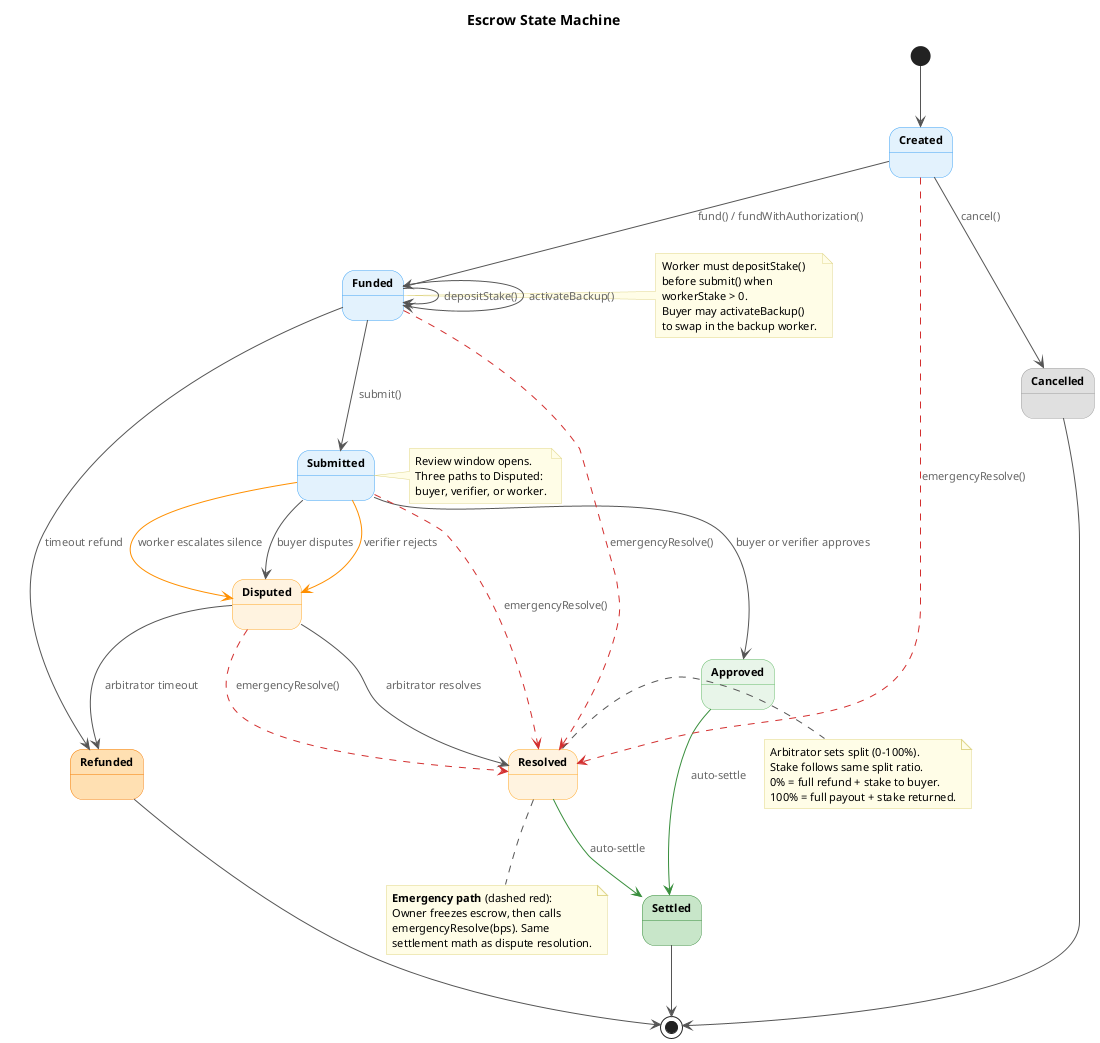
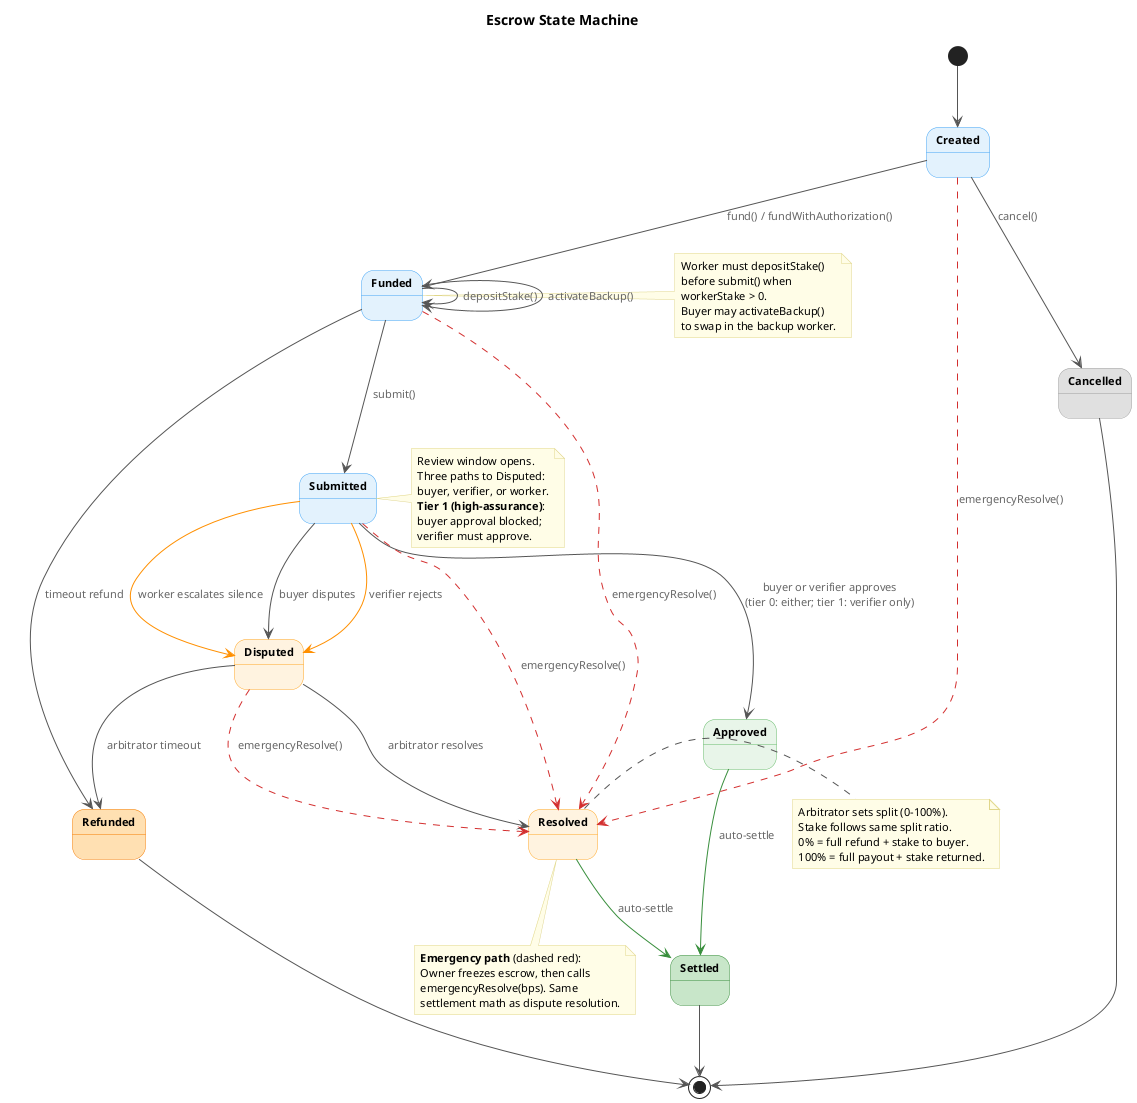
docs: tiered service levels specification, architecture, and diagrams

diff --git a/docs/ROADMAP.md b/docs/ROADMAP.md
@@ -108,7 +108,7 @@ Full marketplace intelligence and the paper's advanced coordination mechanisms.
 14. **Verifiable credentials for bidding** ✓ -- agents present signed capability attestations (`attestation-v1` profile) during sealed-bid reveal; delegator specifies `required_credentials_json` on RFQ with domain/capability/trusted-issuer selectors; server validates secp256k1 signatures, subject binding, expiry, and requirement matching; `accept_bid` gated on `credential_verified` when requirements present; Bazaar-compatible discovery metadata at `GET /api/v1/bazaar/discovery`; forward-compatible `issuer_did` field for V4 DID integration (paper §4.6 Table 3: Web of Trust with DIDs)
 15. **Attestation chains** ✓ -- recursive verification across delegation chains (A -> B -> C); each link produces a signed `completion-attestation-v1` attestation of sub-task completion; parent-child escrow linkage (`parent_escrow_id` on RFQs and escrows); off-chain DAG validation (cycle detection, parent-link integrity, child escrow coverage, signature verification via secp256k1 recovery); attestation chain storage with root hash and verification summary; exposed across HTTP API (`GET /api/v1/escrows/{id}/attestation-chain`, `GET /api/v1/escrows/{id}/children`, attestation-enriched `GET /api/v1/escrows/{id}`), MCP tools (`get_attestation_chain`, `submit_work` with `attestation_chain_json`), and `escrow-cli` commands (`attestation-chain`, `children`); buyer-must-be-worker constraint enforced on sub-delegation RFQ creation (paper §4.8: transitive liability, chain of custody)
 16. **Checkpoint/resume** ✓ -- standardized checkpoint artifacts for mid-task agent swaps; active worker commits `state_snapshot` URIs to shared storage with optional milestone scoping, content hashing, and completion percentage; replacement workers retrieve latest checkpoint via MCP tools (`commit_checkpoint`, `list_checkpoints`, `get_latest_checkpoint`), HTTP API (`POST/GET /api/v1/escrows/{id}/checkpoints`, `GET .../checkpoints/latest`), and `escrow-cli` commands (`checkpoint-commit`, `checkpoints`, `checkpoint-latest`); authorization enforced (active worker only); off-chain event published on commit; couples with existing V2 milestone settlement for partial compensation (paper §6.1: checkpoint artifacts + partial compensation clauses; §4.4: checkpoint-based re-allocation)
-17. **Tiered service levels** -- low-assurance (optimistic) vs high-assurance (verified) delegation paths with different fee/verification structures (paper §5.3: ensure safety does not become a luxury good)
+17. **Tiered service levels** ✓ -- low-assurance (optimistic, tier 0) vs high-assurance (verified, tier 1) delegation paths with per-tier protocol fee snapshots and differentiated approval rules; `serviceTier` stored immutably on-chain; high-assurance escrows block `approveByBuyer` / `approveMilestoneByBuyer` (verifier-only settlement); `highAssuranceFeeBps` set at factory level and snapshotted into each escrow at creation; propagated through Go chain layer, storage, bidding, API, MCP tools, and event indexer (paper §5.3: ensure safety does not become a luxury good)
 18. **ZK verification slot** -- optional `proofHash` field on submission for formally verifiable tasks; supports zk-SNARKs/groth16; on-chain verification for high-assurance tasks via dedicated verifier contract, off-chain verification by default with proof hash commitment; candidate backends: EVM-native ZK coprocessors (Axiom, RISC Zero, SP1) for Base-local proving, or cross-chain proof submission from a privacy-preserving chain (Midnight, Aztec) via LayerZero messaging (paper §4.8: cryptographic verification for trustless automated verification)
 19. **Multi-verifier quorum** -- multiple independent verifiers for high-criticality tasks; Schelling point consensus (paper §4.8: game-theoretic verification consensus)
 20. **Market stability mechanisms** -- cooldown periods for re-bidding, damping factors on reputation updates, increasing fees on frequent re-delegation (paper §4.4: prevent oscillation and cascading re-allocations)

diff --git a/docs/SPEC.md b/docs/SPEC.md
@@ -295,12 +295,14 @@ V2 records raw outcome counts only. The paper warns that naive implementations a
 ## 9) Economic Parameters
 
 Global (factory-level):
-- `protocolFeeBps` (0-10000) -- snapshotted at escrow creation to prevent governance race conditions mid-task.
+- `protocolFeeBps` (0-10000) -- fee for low-assurance (tier 0) escrows, snapshotted at creation to prevent governance race conditions mid-task.
+- `highAssuranceFeeBps` (0-10000) -- fee for high-assurance (tier 1) escrows, snapshotted at creation. Typically higher than `protocolFeeBps` to reflect the additional verification overhead.
 - `treasury` address -- snapshotted at creation.
 - `complexityFloor` -- minimum escrow amount (in wei or smallest token unit) to justify delegation overhead. Owner-settable via `setComplexityFloor`. `0` means disabled (no minimum). Checked against `p.amount` (total escrow amount) at `createEscrow` time. Rationale (paper §4.3): below a certain complexity floor, transaction costs (gas + protocol fee) exceed the value of the task, rendering delegation infeasible.
 
 Per-escrow:
 - `amount` -- total escrow amount (ETH or ERC20). For milestone escrows, equals sum of all milestone amounts.
+- `serviceTier` -- `0` (low-assurance / optimistic) or `1` (high-assurance / verified). Immutable after creation. Determines which fee is snapshotted and whether buyer-only approval is permitted (see §9a).
 - `workerStake` -- anti-Sybil bond (paper §4.8). `0` means no stake required.
 - `submissionDeadline` -- unix timestamp (single-shot) or per-milestone deadlines.
 - `reviewPeriodSeconds` -- window for approval/rejection after submission.
@@ -310,6 +312,22 @@ Per-escrow:
 Default values: review = 86,400s (24h), dispute = 172,800s (48h).
 
 Rationale (paper §4.3, §4.4): 24h/48h windows balance oversight with capital efficiency. Explicit reject avoids passive acceptance under ambiguity (criticality and accountability). Silence-escalation prevents indefinite lock under asymmetric power/inattention (monitoring and authority gradients).
+
+### 9a) Tiered Service Levels (paper §5.3)
+
+Two service tiers ensure safety does not become a luxury good:
+
+| Tier | Name | Fee Source | Approval Rule |
+|------|------|-----------|---------------|
+| 0 | Low-assurance (optimistic) | `protocolFeeBps` | Buyer **or** verifier can approve |
+| 1 | High-assurance (verified) | `highAssuranceFeeBps` | Verifier **only** can approve; `approveByBuyer` / `approveMilestoneByBuyer` revert with `HighAssuranceRequiresVerifier()` |
+
+**Fee snapshot**: at `createEscrow` time, the factory reads `highAssuranceFeeBps` or `protocolFeeBps` depending on `serviceTier` and writes the result into the escrow's immutable `protocolFeeBpsSnapshot`. Subsequent factory fee changes do not affect existing escrows.
+
+**Invariants**:
+- `serviceTier` is immutable (set in constructor, stored as `uint8`).
+- `createEscrow` reverts with `InvalidServiceTier()` if `serviceTier > 1`.
+- All other escrow behavior (dispute, timeout, settlement math, milestone flows, stake handling) is tier-agnostic -- only the approval gate and fee snapshot differ.
 
 ## 10) Edge Cases
 

diff --git a/docs/ARCHITECTURE.md b/docs/ARCHITECTURE.md
@@ -348,7 +348,8 @@ Roles are immutable per escrow in V1 (including `backupWorker`).
 
 ### Economics
 
-- Protocol fee: basis points on successful payout (snapshotted at escrow creation to prevent governance races). In milestone mode, the fee is applied per-milestone payout.
+- **Tiered protocol fees** (paper §5.3): two fee tiers ensure safety does not become a luxury good. `protocolFeeBps` applies to low-assurance (tier 0) escrows; `highAssuranceFeeBps` applies to high-assurance (tier 1) escrows. Both are set at the factory level and snapshotted into each escrow at creation to prevent governance races. In milestone mode, the fee is applied per-milestone payout.
+- **Service tier** (`serviceTier`): `0` = low-assurance (optimistic), `1` = high-assurance (verified). Immutable per escrow. High-assurance escrows require verifier approval -- `approveByBuyer` and `approveMilestoneByBuyer` revert. Low-assurance escrows retain the existing optimistic path where buyer or verifier can approve.
 - ETH and ERC20 (originally planned for V2, now part of the current baseline).
 - `workerStake`: optional anti-Sybil bond the worker deposits before submission (paper §4.8). Set at escrow creation; 0 means no stake required. If approved, the stake is returned to the worker in full; disputed stakes follow the same proportional split as payment; on timeout, arbitrator timeout, or backup activation, the stake is forfeited to the buyer. In milestone mode, stake is held for the full escrow duration and settled once at the end.
 - `backupWorker`: optional pre-designated fallback worker (paper §4.4). If the primary worker defaults, the buyer calls `activateBackup()` to replace the active worker, extend the deadline by `backupDeadlineExtension` seconds, and forfeit any deposited stake.
